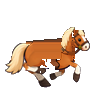
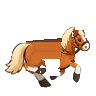
Zona de pruebas fija junto al rancho (Ant 13:09): 2 caballos salvajes de genotipos fijos distintos con marcha visible (wander opt-in), 2 arboles, 2 cactus, 2 casas, 2 senderos, cerdos y vallas; overlay aditivo sin tocar semilla ni streaming. Sweep de cuero del estribo en make_wild_base: borra el res

Changed region(s): [[0.4688, 0.5938, 0.625, 0.8125], [0.4688, 0.6875, 0.5312, 0.7188]]

diff --git a/tools/make_wild_base.py b/tools/make_wild_base.py
@@ -203,6 +203,26 @@ def rebuild(anim, frame, out_base=None, out_mask=None):
                     kept.pop((x, y), None)
                     px[x, y] = (0, 0, 0, 0)
 
+    # -- stirrup-leather sweep: mid-tone tack remnant under the belly --------
+    # The boot is leather brown, classified "coat", so the dark-only passes
+    # above skip it; it hangs at x46-59 below the belly fill, mask-free, and
+    # recolors badly on light coats. Erase non-covered, non-bright pixels
+    # there; keep hooves, which always sit next to a bright sock.
+    for y in range(58, 76):
+        for x in range(46, 60):
+            if not kept.get((x, y)) or px[x, y][3] == 0:
+                continue
+            if max(mk[x, y][0], mk[x, y][1]) >= 6:
+                continue  # real body/leg (mask-covered)
+            if cls(px[x, y]) == "white":
+                continue  # white sock
+            near_bright = any(kept.get((x + dx, y + dy)) and cls(px[x + dx, y + dy]) == "white"
+                              for dx in range(-3, 4) for dy in range(-3, 4))
+            if near_bright:
+                continue  # hoof beside a white sock
+            kept.pop((x, y), None)
+            px[x, y] = (0, 0, 0, 0)
+
     # -- component cleanup: drop small fragments detached from the body ------
     seen = {}
     comps = []
